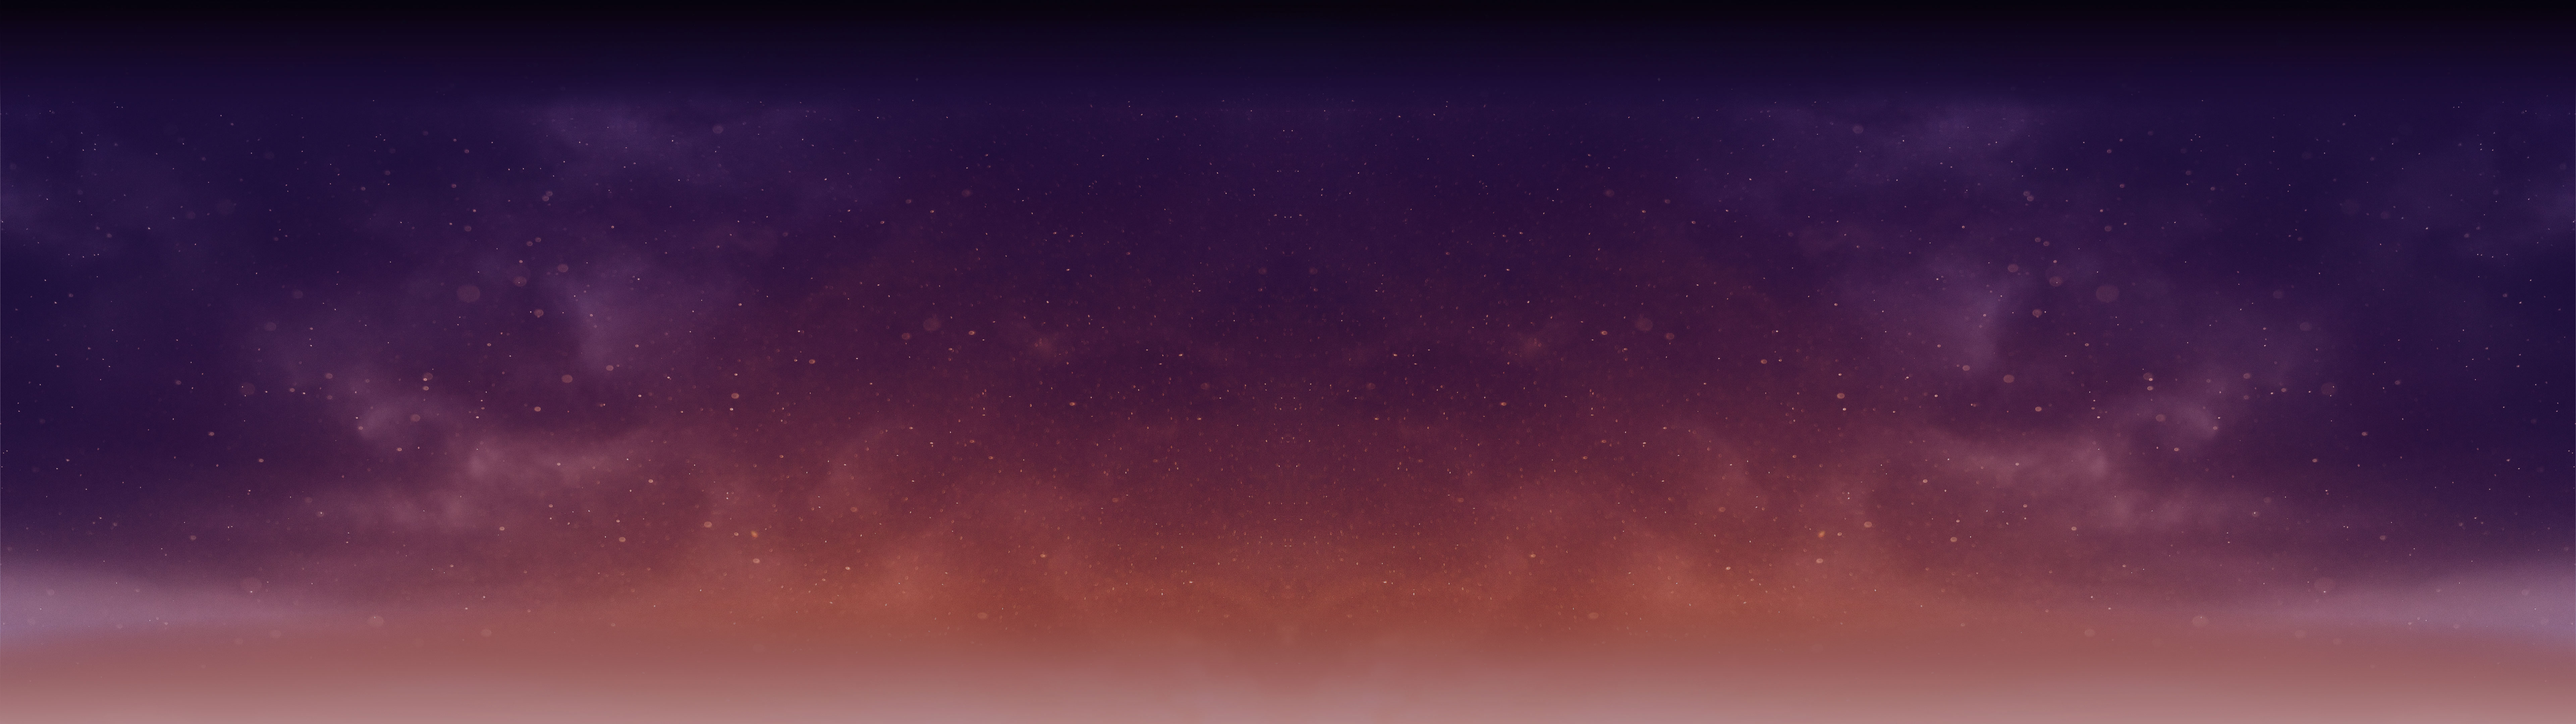
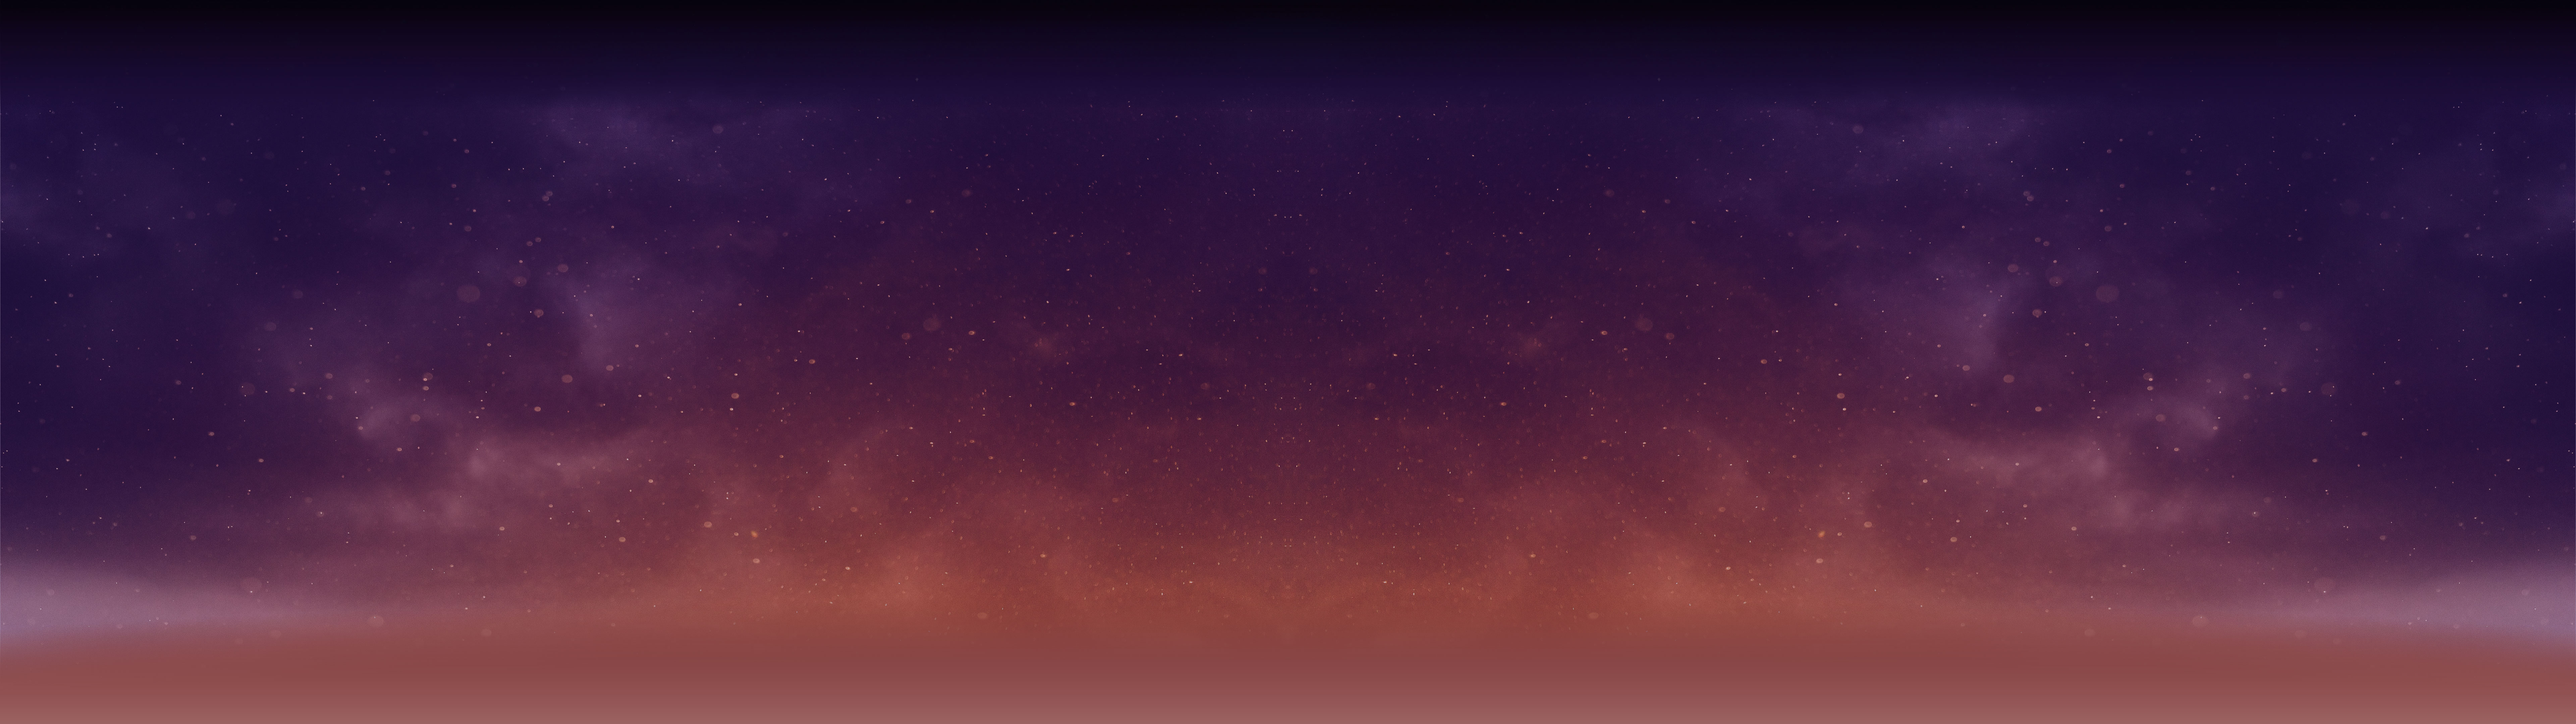
beautifully designed

Changed region(s): [[0.0, 0.8995, 1.0, 1.0]]

diff --git a/index.html b/index.html
@@ -269,7 +269,7 @@
             </div>-->
 
             <!--@@@@@@@@@@@@@@@@@@@@Contact@@@@@@@@@@@@@@@@@@@@-->
-            <div style="background: linear-gradient(#000000 ,#29434e);height:300px;"></div>
+            <div style="background: linear-gradient(#ffffff ,#29434e);height:300px;"></div>
             <div id="contact" style="background-color:#29434e;padding: 3em;position: inherit;z-index: 3;">
                 <br />
                 <div class="mdl-grid">
